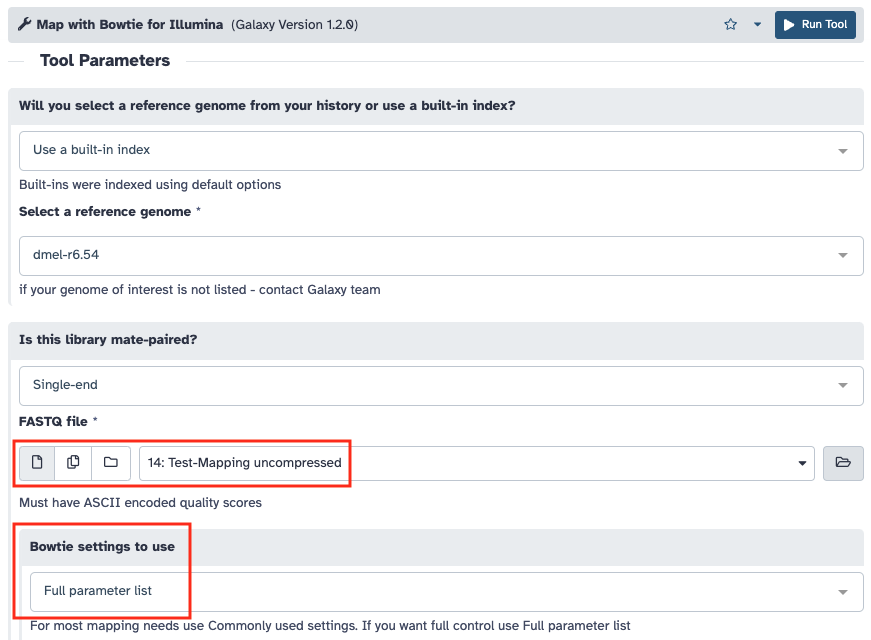
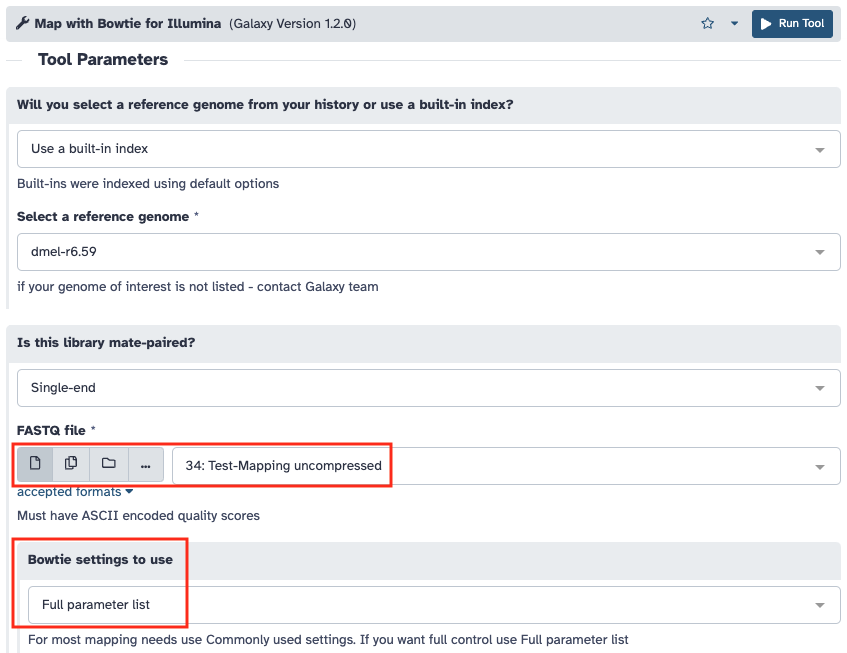
Documentation update

diff --git a/docs/rnaseq.md b/docs/rnaseq.md
@@ -48,20 +48,22 @@ Vous allez utiliser bowtie pour réaliser l’alignement des lectures obtenues s
 
 Ouvrez le [tableau partagé](https://docs.google.com/spreadsheets/d/1aOcIwFhsY8qtf-cb1hz1NWUmFlfvU1sVO73e-tBzybs/edit?gid=871313255) dans une nouvelle fenêtre de votre navigateur. Rendez-vous dans l'onglet "Test alignement RNAseq".
 
-Indiquez votre prénom sur la ligne des paramètres de mapping que vous voulez tester.
+Vous allez lancer deux alignements sur les jeux de paramètres indiquez dans le tableau. Le premier en tant que testeur, le second en tant que relecteur.
 
 Vous allez travailler sur l'échantillon *Test Mapping* présent dans votre histoire.
 
 Vous allez utiliser l’outil ***Map with Bowtie for Illumina*** sur les données brutes de l'échantillon *Test Mapping* en alignant les lectures sur le génome de référence de la drosophile pour tester différents paramètres d'alignement.
-
-En cas de soucis d'affichage des données en entrée de l'outil Bowtie, reportez vous aux [annexes](./annexes.md#modifier-le-type-des-donnees) pour savoir comment changer le type des données.
 
 ![Alignement avec Bowtie](img/rna/bowtie1.png "Alignement avec Bowtie")
 ![Alignement avec Bowtie](img/rna/bowtie2.png "Alignement avec Bowtie")
 ![Alignement avec Bowtie](img/rna/bowtie3.png "Alignement avec Bowtie")
 ![Alignement avec Bowtie](img/rna/bowtie4.png "Alignement avec Bowtie")
 
-Une fois l'alignement effectué, indiquez le nombre, le pourcentage de lectures alignées et le temps mis par le programme à s'exécuter dans l'[onglet "Test alignement RNAseq" du tableau partagé](https://docs.google.com/spreadsheets/d/1aOcIwFhsY8qtf-cb1hz1NWUmFlfvU1sVO73e-tBzybs/edit?gid=871313255).
+Une fois l'alignement effectué, indiquez le nombre, le pourcentage de lectures alignées et le temps mis par le programme à s'exécuter dans l'[onglet "Test alignement RNAseq" du tableau partagé](https://docs.google.com/spreadsheets/d/1aOcIwFhsY8qtf-cb1hz1NWUmFlfvU1sVO73e-tBzybs/edit?gid=871313255) sur la ligne des paramètres dont vous avez la charge en tant que testeur. Vérifiez que vous obtenez les mêmes résultats que ceux indiqués par le testeur dans la ligne où vous êtes le relecteur.
+
+!!! note ""
+
+	Les paramètres de lancement du job sont accessibles dans Galaxy. Pour cela vous devez cliquer dans votre jeu de données sur l’icône d’information (i). La page qui s’affiche vous donne accès aux paramètres de lancement de l’outil utilisé.
 
 !!! hint "Question"
 
@@ -82,9 +84,10 @@ Maintenant que vous avez déterminé les options qui vous paraissent les plus pe
 
 Reportez le "nombre d'alignements" et vos paramètres dans le [tableau partagé](https://docs.google.com/spreadsheets/d/1aOcIwFhsY8qtf-cb1hz1NWUmFlfvU1sVO73e-tBzybs/edit?gid=418538100).
 
-!!! hint ""
+!!! danger "Attention"
 
-	Les paramètres de lancement du job sont accessibles dans Galaxy. Pour cela vous devez cliquer dans votre jeu de données sur l’icône d’information (i). La page qui s’affiche vous donne accès aux paramètres de lancement de l’outil utilisé.
+	N'oubliez pas de cocher l'option "Save the bowtie mapping statistics to the history" pour récupérer les informations de l'alignement !
+
 
 --------------------------------------------------------------------------------
 ## Conversion des fichiers SAM
@@ -120,7 +123,19 @@ Reportez le "nombre de lectures comptées" dans le [tableau partagé](https://do
 
 Vous allez maintenant comparer les niveaux d’expression des gènes entre vos 2 conditions à l’aide des 3 réplicats de chaque condition. Pour cela vous devez d’abord récupérer les fichiers de comptage des autres échantillons qu’il vous manque.
 
-Reportez vous aux [annexes](./annexes.md#partage-de-fichiers-dans-galaxy) pour savoir comment partager des données entre serveurs Galaxy et récupérer les fichiers de comptage qu'ils vous manquent dans votre histoire.
+La liste ci-dessous peut-être importée dans votre serveur Galaxy. Attention à ne sélectionner que les lignes correspondant aux échantillons dont vous avez besoin.
+
+```
+GLKD
+https://psilo.sorbonne-universite.fr/index.php/s/Kdm3_RNAseqData/download?path=%2F&files=featureCounts_GLKD_ALBA1.txt	GLKD-ALBA1-Counts
+https://psilo.sorbonne-universite.fr/index.php/s/Kdm3_RNAseqData/download?path=%2F&files=featureCounts_GLKD_ALBA2.txt	GLKD-ALBA2-Counts
+https://psilo.sorbonne-universite.fr/index.php/s/Kdm3_RNAseqData/download?path=%2F&files=featureCounts_GLKD_ALBA3.txt	GLKD-ALBA3-Counts
+
+WT
+https://psilo.sorbonne-universite.fr/index.php/s/Kdm3_RNAseqData/download?path=%2F&files=featureCounts_WT_ALBA4.txt	WT-ALBA4-Counts
+https://psilo.sorbonne-universite.fr/index.php/s/Kdm3_RNAseqData/download?path=%2F&files=featureCounts_WT_ALBA5.txt	WT-ALBA5-Counts
+https://psilo.sorbonne-universite.fr/index.php/s/Kdm3_RNAseqData/download?path=%2F&files=featureCounts_WT_ALBA6.txt	WT-ALBA6-Counts
+```
 
 !!! danger "Attention"
 
@@ -130,7 +145,7 @@ Ensuite vous allez utiliser l’outil ***DESeq2*** pour effectuer l’analyse di
 
 !!! danger "Attention"
 
-	Les fichiers qui sont dans vos collections ne sont pas visibles de la même façon que ceux qui vous avez récupérés. Il faut soit rendre visible vos échantillons dans vos collections soit supprimer la collection des comptages pour les faire apparaître.
+	Les fichiers qui sont dans vos collections ne sont pas visibles de la même façon que ceux qui vous avez récupérés. Reportez vous aux [annexes](./annexes.md#extraire-des-elements-dune-collection) pour savoir comment extraire les éléments d'une collection.
 
 !!! hint ""
 
@@ -176,6 +191,11 @@ FBgn0003866
 FBgn0002626
 FBgn0037703
 ```
+
+!!! danger "Attention"
+
+	Copier bien la première ligne d'en-tête sinon le premier gène de la liste n'apparaîtra pas sur le volcano plot
+
 
 Relancez l'outil ***Volcano Plot*** avec les réglages ci-dessous.
 

diff --git a/docs/ressources.md b/docs/ressources.md
@@ -8,7 +8,7 @@ Cette section regroupe un ensemble de fichier ressources utiles pour le TP
 ### Genomic features
 
 Pour ce TP nous utiliserons la version 6.59 du génome de *Drosophila melanogaster* dont les fichiers de séquence au format fasta sont accessibles sur le [site FTP de Flybase](https://ftp.flybase.net/genomes/Drosophila_melanogaster/dmel_r6.59_FB2024_04/fasta/).
-La liste ci-dessous peut-être directement importée dans votre serveur Galaxy. 
+La liste ci-dessous peut-être importée dans votre serveur Galaxy. 
 
 ```
 https://ftp.flybase.net/genomes/Drosophila_melanogaster/dmel_r6.59_FB2024_04/fasta/dmel-all-chromosome-r6.59.fasta.gz	dmel-r6.59-fasta
@@ -25,7 +25,7 @@ https://psilo.sorbonne-universite.fr/index.php/s/Kdm3_GenomicFeatures/download?p
 
 ### Petits ARN
 
-La liste ci-dessous peut-être directement importée dans votre serveur Galaxy. Attention à ne sélectionner uniquement que les lignes correspondant aux deux échantillons sur lesquels vous allez travailler et qui sont indiqués dans le [tableau partagé dans l'onglet "petits ARN"](https://docs.google.com/spreadsheets/d/1aOcIwFhsY8qtf-cb1hz1NWUmFlfvU1sVO73e-tBzybs/edit?gid=243437883).
+La liste ci-dessous peut-être importée dans votre serveur Galaxy. Attention à ne sélectionner que les lignes correspondant aux deux échantillons sur lesquels vous allez travailler et qui sont indiqués dans le [tableau partagé dans l'onglet "petits ARN"](https://docs.google.com/spreadsheets/d/1aOcIwFhsY8qtf-cb1hz1NWUmFlfvU1sVO73e-tBzybs/edit?gid=243437883).
 
 ```
 GLKD
@@ -41,7 +41,7 @@ https://psilo.sorbonne-universite.fr/index.php/s/Kdm3_smallRNAseqData/download?p
 
 ### ARN
 
-La liste ci-dessous peut-être directement importée dans votre serveur Galaxy. Attention à ne sélectionner uniquement que les lignes correspondant aux deux échantillons sur lesquels vous allez travailler et qui sont indiqués dans le [tableau partagé dans l'onglet "ARN"](https://docs.google.com/spreadsheets/d/1aOcIwFhsY8qtf-cb1hz1NWUmFlfvU1sVO73e-tBzybs/edit?gid=418538100).
+La liste ci-dessous peut-être importée dans votre serveur Galaxy. Attention à ne sélectionner que les lignes correspondant aux deux échantillons sur lesquels vous allez travailler et qui sont indiqués dans le [tableau partagé dans l'onglet "ARN"](https://docs.google.com/spreadsheets/d/1aOcIwFhsY8qtf-cb1hz1NWUmFlfvU1sVO73e-tBzybs/edit?gid=418538100).
 
 ```
 GLKD

diff --git a/docs/srna.md b/docs/srna.md
@@ -195,13 +195,11 @@ Vous allez maintenant comparer la distribution des petits ARN sur PLacZ entre le
 
 Vous allez réaliser des graphiques et quantifier la répartition des 2 types de petits ARN (siRNA et piRNA) alignés sur la séquence de PLacZ à partir des lectures de vos différents échantillons. 
 
-La première étape consiste à extraire les deux alignements que vous avez obtenus à l'étape précédente de la collection où ils se trouvent.
-
-Pour cela, utiliser l'outil "Extract dataset" en sélectionnant les 2 fichiers d'alignement l'un après l'autre grâce à leur numéro d'index dans la collection.
-	
-![Extraire un élément d'une collection](img/srna/extract_dataset.png "Extraire un élément d'une collection")
+La première étape consiste à extraire les deux alignements que vous avez obtenus à l'étape précédente de la collection où ils se trouvent. Reportez vous aux [annexes](./annexes.md#extraire-des-elements-dune-collection) pour savoir comment procéder.
 
 Puis vous utiliserez l’outil ***small_rna_maps*** sur chacun de vos fichiers d’alignement extrait en prenant soin d’indiquer pour chacun le facteur de normalisation permettant de corriger les lectures calculés dans le [tableau partagé](https://docs.google.com/spreadsheets/d/1aOcIwFhsY8qtf-cb1hz1NWUmFlfvU1sVO73e-tBzybs/edit?gid=243437883). 
+
+Les facteurs de normalisation sont entrés dans l'ordre des fichiers sélectionnés.
 
 ![Distribution des lectures par taille](img/srna/small_rna_maps.png "Distribution des lectures par taille")
 

diff --git a/docs/annexes.md b/docs/annexes.md
@@ -75,6 +75,14 @@ Pour utiliser dans votre histoire actuel un fichier situé dans un autre histoir
 
 
 --------------------------------------------------------------------------------
+## Extraire des éléments d'une collection
+
+Pour extraire des éléments d'une collection, utilisez l'outil ***Extract dataset**** en sélectionnant les fichiers à extraire les un après les autre grâce à leur numéro d'index dans la collection.
+	
+![Extraire un élément d'une collection](img/annexes/extract_dataset.png "Extraire un élément d'une collection")
+
+
+--------------------------------------------------------------------------------
 ## Partage de fichiers dans Galaxy
 
 ### Isoler les données à partager dans une histoire dédidée
